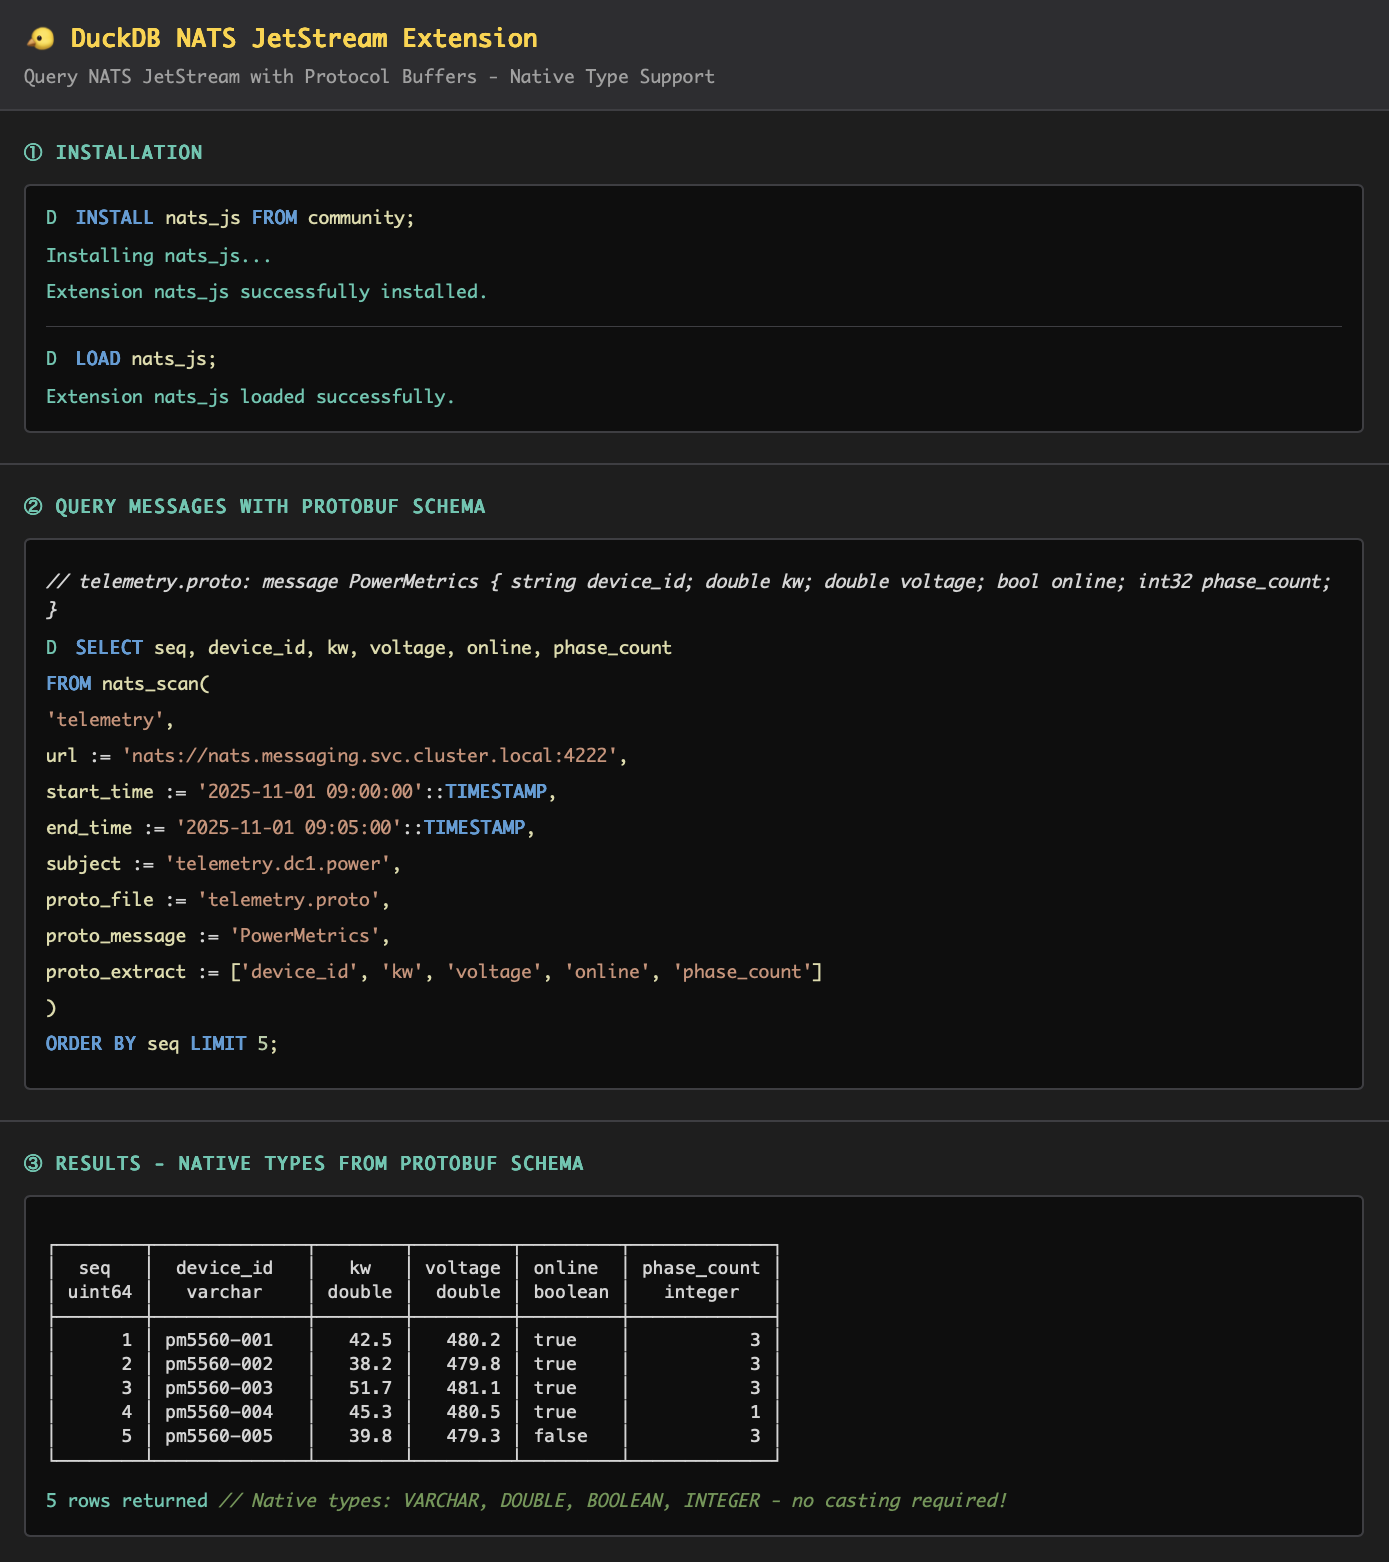
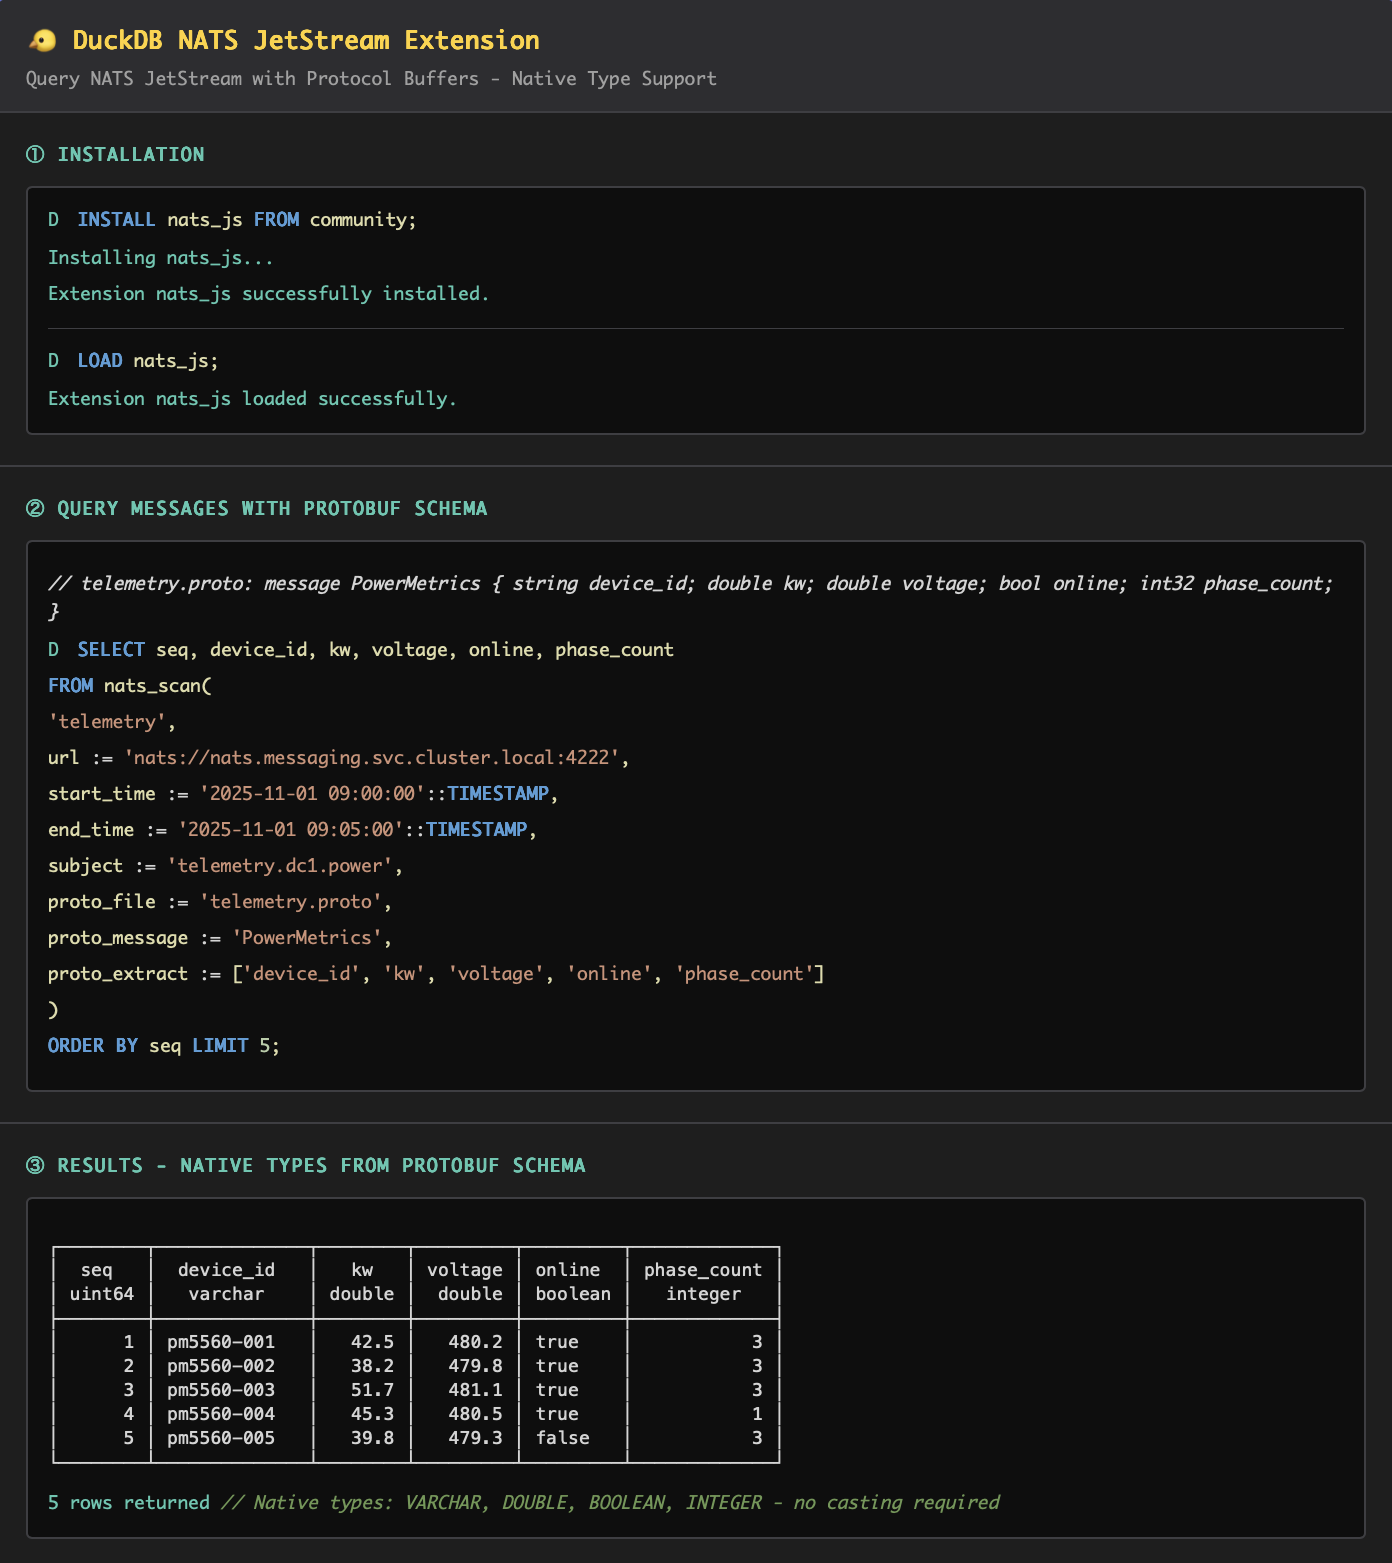
Remove exclamation mark from protobuf demo footer

diff --git a/demo-protobuf.html b/demo-protobuf.html
@@ -261,7 +261,7 @@
 └────────┴──────────────┴────────┴─────────┴─────────┴─────────────┘</pre>
                     </div>
                     <div class="output" style="margin-top: 15px;">
-                        <span class="success">5 rows returned</span> <span class="comment">// Native types: VARCHAR, DOUBLE, BOOLEAN, INTEGER - no casting required!</span>
+                        <span class="success">5 rows returned</span> <span class="comment">// Native types: VARCHAR, DOUBLE, BOOLEAN, INTEGER - no casting required</span>
                     </div>
                 </div>
             </div>
